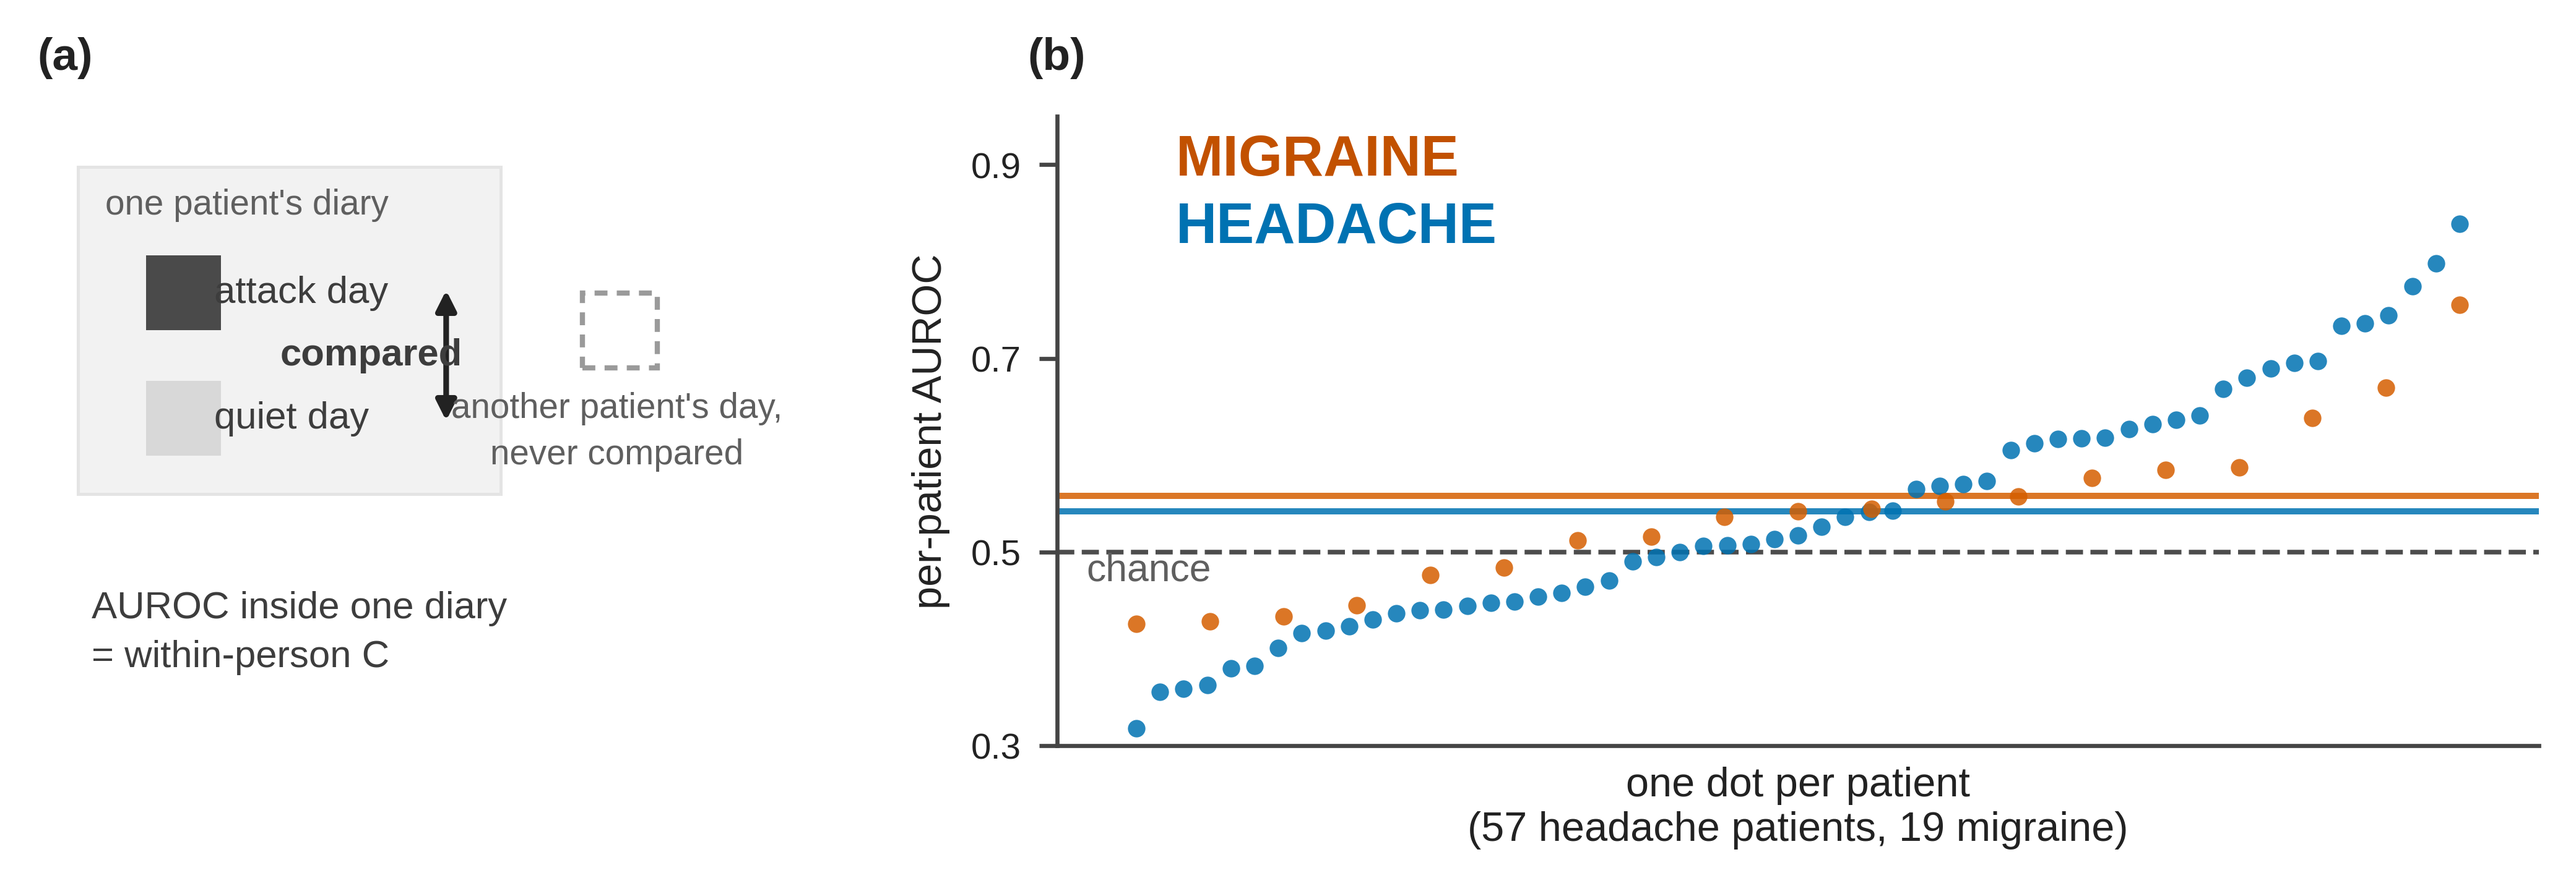
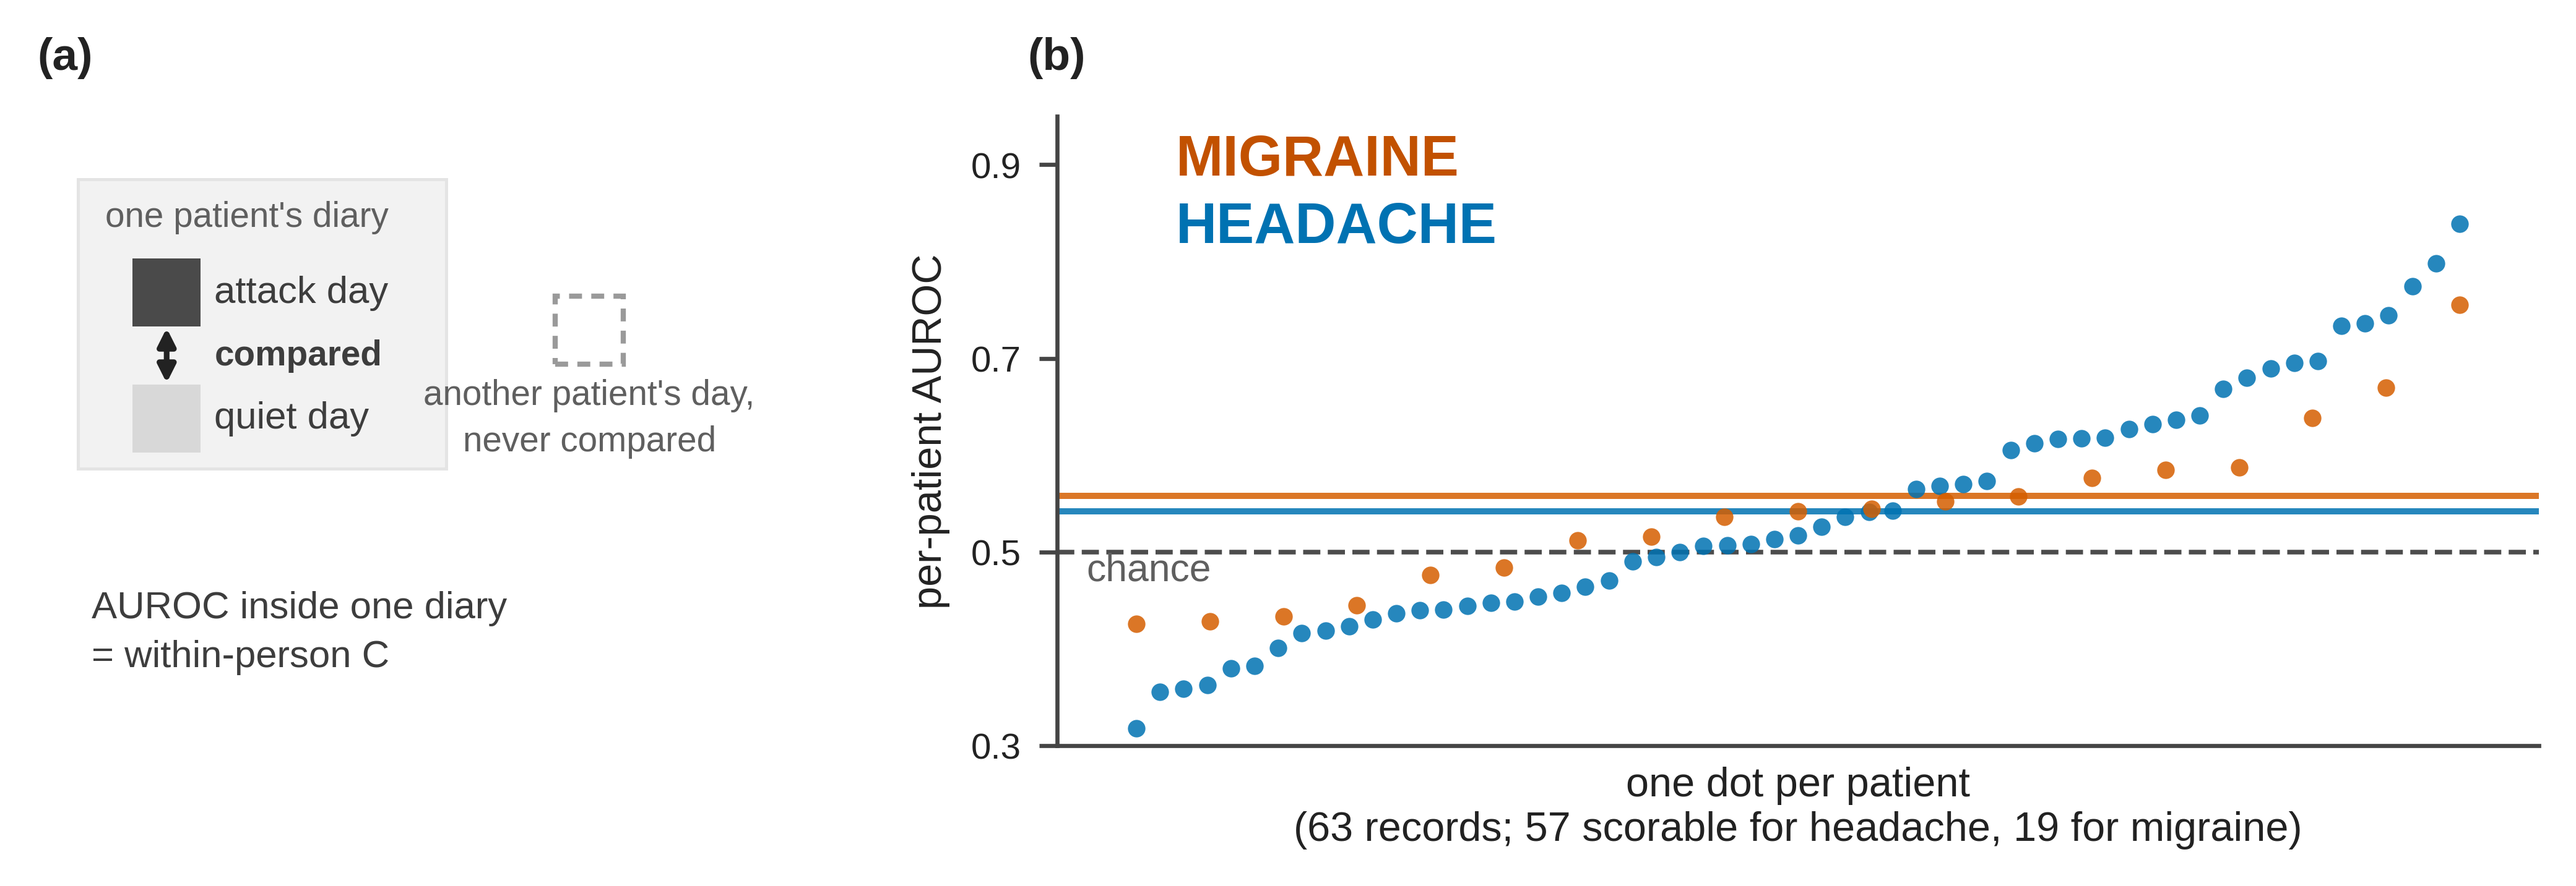
lay

diff --git a/docs/methodAndResults_diagramCreatorScripts/fig_m_evaluation_series.py b/docs/methodAndResults_diagramCreatorScripts/fig_m_evaluation_series.py
@@ -139,17 +139,17 @@ def _how_auroc(ax):
 def _how_within(ax):
     """The same pair test, confined to one patient's own diary."""
     ax.axis("off"); ax.set_xlim(0, 100); ax.set_ylim(0, 100)
-    ax.add_patch(Rectangle((4, 40), 62, 52, fc=A_PANE, ec="#e4e4e4", lw=0.6))
-    _lab(ax, 8, 86, "one patient's diary", PT_FINE, SECOND)
+    ax.add_patch(Rectangle((4, 44), 54, 46, fc=A_PANE, ec="#e4e4e4", lw=0.6))
+    _lab(ax, 8, 84, "one patient's diary", PT_FINE, SECOND)
     for yy, col, lab in ((72, A_STRONG, "attack day"), (52, A_LIGHT, "quiet day")):
-        _sq(ax, 14, yy, 11, col)
+        _sq(ax, 12, yy, 10, col)
         _lab(ax, 24, yy, lab, PT_BODY, BODY)
-    ax.annotate("", xy=(58, 74), xytext=(58, 50),
+    ax.annotate("", xy=(17, 68), xytext=(17, 56),
                 arrowprops=dict(arrowstyle="<|-|>", color=A_INK, lw=1.1,
-                                mutation_scale=8))
-    _lab(ax, 47, 62, "compared", PT_BODY, BODY, weight="bold", ha="center")
-    _sq(ax, 78, 66, 11, A_EDGE, outline=True)
-    _lab(ax, 83, 50, "another patient's day,\nnever compared", PT_FINE, SECOND,
+                                mutation_scale=7))
+    _lab(ax, 24, 62, "compared", PT_FINE, BODY, weight="bold")
+    _sq(ax, 74, 66, 10, A_EDGE, outline=True)
+    _lab(ax, 79, 52, "another patient's day,\nnever compared", PT_FINE, SECOND,
          ha="center")
     _lab(ax, 6, 18, "AUROC inside one diary\n= within-person C", PT_BODY, BODY)
 
@@ -195,8 +195,8 @@ def _how_dca(ax):
     _lab(ax, 12, 40, "days treated for nothing", PT_BODY, BODY)
     # was "weighted by how reluctant one is to treat" -- a clause, and it never named
     # the quantity. These two fragments name it and tie it to the panel (b) x-axis.
-    _lab(ax, 62, 32, "weight = t / (1 \u2212 t)", PT_FINE, SECOND)
-    _lab(ax, 62, 24, "false alarms per\nattack caught", PT_FINE, SECOND)
+    _lab(ax, 12, 14, "weight = t / (1 \u2212 t)", PT_FINE, SECOND)
+    _lab(ax, 12, 6, "false alarms per attack caught", PT_FINE, SECOND)
 
 
 def _skill_panel(ax, rows, cols):
@@ -230,10 +230,12 @@ def _dca_panel(ax, preds, col):
     ax.axhline(0.0, color=S.INK, lw=1.0, zorder=3)
     y, p, _ = preds["migraine"]
     nb, nb_all = _net_benefit(y, p, ts)
-    ax.plot(ts, nb_all, color=col, lw=0.9, ls=(0, (3, 2)), alpha=0.7, zorder=4)
+    # treat-all is a POLICY, not a target, so it is achromatic. Both blind readers read
+    # the old same-hue dashed line as a confidence band on the model.
+    ax.plot(ts, nb_all, color=A_MID, lw=0.9, ls=(0, (4, 2)), zorder=4)
     ax.plot(ts, nb, color=col, lw=2.0, zorder=5, solid_capstyle="round")
     j = int(len(ts) * 0.34)
-    _lab(ax, ts[j], nb[j] + 0.007, "migraine", PT_BODY, col, weight="bold")
+    _lab(ax, ts[j], nb[j] + 0.010, "MIGRAINE", PT_VALUE, MIG_TEXT, weight="bold")
     _lab(ax, 0.505, 0.0, "treat none", PT_FINE, BODY)
     _lab(ax, 0.145, -0.041, "treat everyone", PT_FINE, SECOND)
     ax.set_xlim(0.01, 0.50); ax.set_ylim(-0.065, 0.105)
@@ -308,6 +310,13 @@ def main() -> None:
                            (0.030, 0.835, "HEADACHE", HEA_TEXT)):
             ax.text(x, y, t, fontsize=PT_VALUE, fontweight="bold", color=c,
                     ha="left", va="center", zorder=6)
+        # Both blind readers counted the dots and asked whether the cohort was 76 people.
+        # It is not: the 19 migraine-scorable records are a strict subset of the 57
+        # headache-scorable ones, both drawn from the same 63. Overridden here rather
+        # than in graphical_abstract.py, which must keep rendering unchanged.
+        ax.set_xlabel("one dot per patient\n"
+                      "(63 records; 57 scorable for headache, 19 for migraine)",
+                      fontsize=PT_AXIS)
 
     _one("fig_m1_pooled_auroc", _how_auroc, (), GA._draw_slopegraph, (), _label_slope)
     _one("fig_m2_within_person", _how_within, (), GA._draw_per_patient, (), _label_rank)
